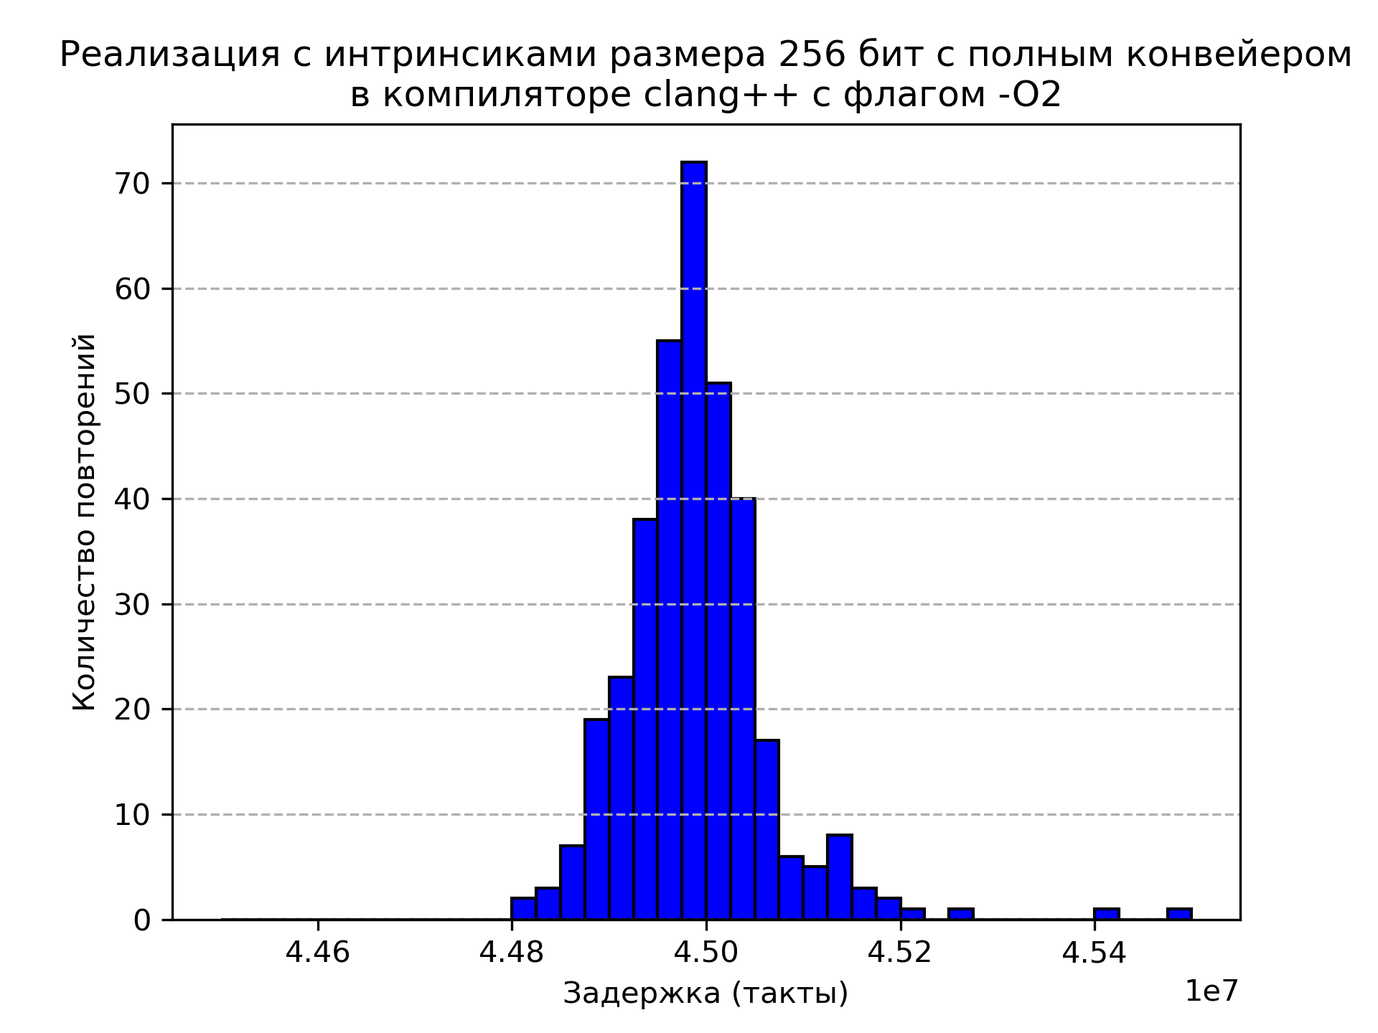
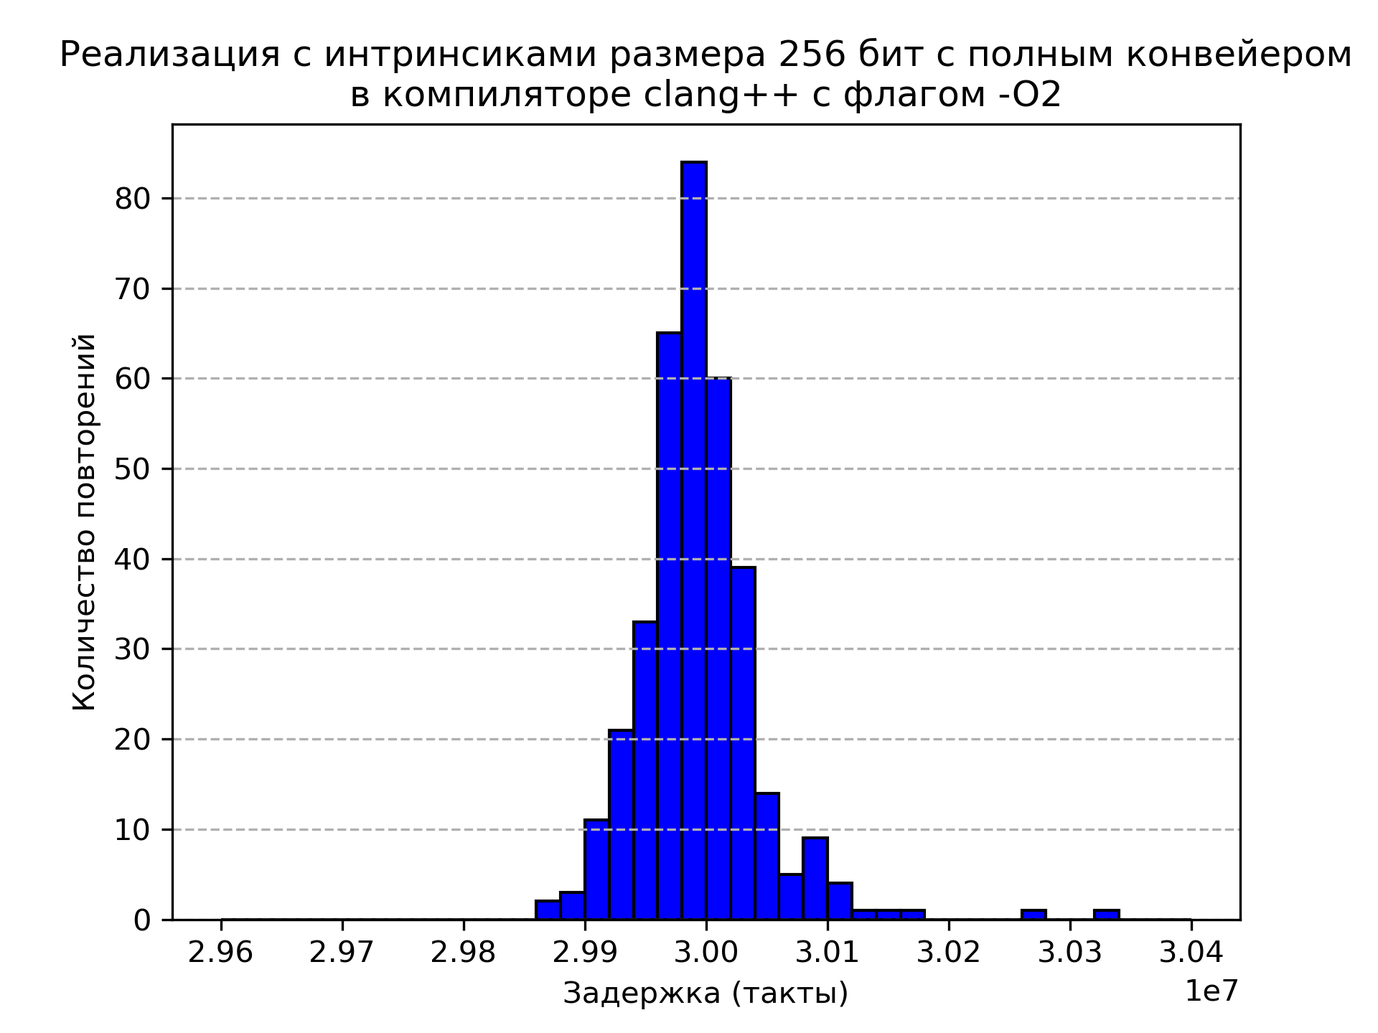
README Update

diff --git a/draw_diagram.py b/draw_diagram.py
@@ -14,10 +14,10 @@ delta = [0, 0, 0, 0]
 frequency = 2000000000
 avg = [0, 0, 0, 0]
 
-file_names = ['data/plot_Naive_clang++_O2.png',
-              'data/plot_Array_clang++_O2.png',
-              'data/plot_256_clang++_O3.png',
-              'data/plot_256_full_pipeline_clang++_O2.png']
+file_names = ['data/plot_256_full_pipeline_G++_O2.png',
+              'data/plot_256_full_pipeline_G++_O3.png',
+              'data/plot_256_full_pipeline_clang++_O2.png',
+              'data/plot_256_full_pipeline_clang++_O3.png']
 graph_names = ['Наивная реализация',
                'Реализация на массивах',
                'Реализация с интринсиками размера 256 бит',
@@ -30,127 +30,81 @@ plot_stable_names = ['Naive_stable.png',
 
 fig_size = 10,6
 
-version_num = 0
-with open('Output_1.txt', 'r') as f:
-   data = [float(line.strip()) for line in f]
-
-x = np.empty(1000, dtype=np.int16)
-
-for i in range (1, 1001):
-    x [i-1] = i
-
-plt.figure(figsize=(fig_size))
-plt.plot (x[:500], data[250:750])
-plt.title("Наивная версия в компиляторе G++ с флагом -O2\n Задержка в тактах в зависимости от номера итерации")
-plt.ylabel('Номер итерации')
-plt.xlabel('Задержка (такты)')
-plt.savefig(plot_stable_names [version_num], dpi = 300)
-plt.clf ()
-
-version_num = 1
-with open('Output_2.txt', 'r') as f:
-   data = [float(line.strip()) for line in f]
-
-x = np.empty(1000, dtype=np.int16)
-
-for i in range (1, 1001):
-    x [i-1] = i
-
-plt.figure(figsize=(fig_size))
-plt.plot (x[:500], data[250:750])
-plt.title("Реализация на массивах в компиляторе G++ с флагом -O2\n Задержка в тактах в зависимости от номера итерации")
-plt.ylabel('Номер итерации')
-plt.xlabel('Задержка (такты)')
-plt.savefig(plot_stable_names [version_num], dpi = 300)
-plt.clf ()
-
-version_num = 2
-with open('Output_3.txt', 'r') as f:
-   data = [float(line.strip()) for line in f]
-
-x = np.empty(1000, dtype=np.int16)
-
-for i in range (1, 1001):
-    x [i-1] = i
-
-plt.figure(figsize=(fig_size))
-plt.plot (x[:500], data[250:750])
-plt.title("Реализация с интринсиками размера 256\n в компиляторе G++ с флагом -O2\n Задержка в тактах в зависимости от номера итерации")
-plt.ylabel('Номер итерации')
-plt.xlabel('Задержка (такты)')
-plt.savefig(plot_stable_names [version_num], dpi = 300)
-plt.clf ()
-
-version_num = 3
-with open('Output_4.txt', 'r') as f:
-   data = [float(line.strip()) for line in f]
-
-x = np.empty(1000, dtype=np.int16)
-
-for i in range (1, 1001):
-    x [i-1] = i
-
-plt.figure(figsize=(fig_size))
-plt.plot (x[:500], data[300:800])
-plt.title("Реализация с интринсиками размера 256 бит с полным конвейером\nв компиляторе G++ с флагом -O2\n Задержка в тактах в зависимости от номера итерации")
-plt.ylabel('Номер итерации')
-plt.xlabel('Задержка (такты)')
-plt.savefig(plot_stable_names [version_num], dpi = 300)
-plt.clf ()
-
-# with open('Output_1_bolt.txt', 'r') as f:
-#    data = [float(line.strip()) for line in f]
-#
 # version_num = 0
-# plt.hist(data [250 : 751], bins = 40, color = 'blue', edgecolor = 'black')# range= (3.955*10**8, 3.975*10**8))
-# plt.grid(axis='y', linestyle='--')
-# plt.title("Наивная версия в компиляторе G++ с флагом -O2 с LLVM bolt")
-# plt.xlabel('Задержка (такты)')
-# plt.ylabel('Количество повторений')
-# plt.savefig(file_names [version_num], dpi = 300)
-# plt.clf ()
-#
-# for i in range (250, 751):
-#     avg[version_num] += data [i]
-# avg[version_num] /= 500
-#
-# for i in range (250, 751):
-#     delta [version_num] += (avg [version_num] - data [i])**2
-# delta [version_num] /= 500
-# delta [version_num] = m.sqrt (delta [version_num])
-#
-# print ('Величина равна ', avg [version_num], ' а погрешность ',version_num,' версии равна ', int (round_significant (delta [version_num])))
-#
-# with open('Output_2_bolt.txt', 'r') as f:
+# with open('Output_1.txt', 'r') as f:
 #    data = [float(line.strip()) for line in f]
+#
+# x = np.empty(1000, dtype=np.int16)
+#
+# for i in range (1, 1001):
+#     x [i-1] = i
+#
+# plt.figure(figsize=(fig_size))
+# plt.plot (x[:500], data[250:750])
+# plt.title("Наивная версия в компиляторе G++ с флагом -O2\n Задержка в тактах в зависимости от номера итерации")
+# plt.ylabel('Номер итерации')
+# plt.xlabel('Задержка (такты)')
+# plt.savefig(plot_stable_names [version_num], dpi = 300)
+# plt.clf ()
 #
 # version_num = 1
-# plt.hist(data [250 : 751], bins = 40, color = 'blue', edgecolor = 'black')# range= (1.450*10**8, 1.475*10**8))
-# plt.grid(axis='y', linestyle='--')
-# plt.title("Реализация на массивах в компиляторе G++ с флагом -O2 с LLVM bolt")
-# plt.xlabel('Задержка (такты)')
-# plt.ylabel('Количество повторений')
-# plt.savefig(file_names [version_num], dpi = 300)
-# plt.clf ()
-#
-# for i in range (250, 751):
-#     avg[version_num] += data [i]
-# avg[version_num] /= 500
-#
-# for i in range (250, 751):
-#     delta [version_num] += (avg [version_num] - data [i])**2
-# delta [version_num] /= 500
-# delta [version_num] = m.sqrt (delta [version_num])
-#
-# print ('Величина равна ', avg [version_num], ' а погрешность ',version_num,' версии равна ', int (round_significant (delta [version_num])))
-
-# with open('Output_3_clang_2.txt', 'r') as f:
+# with open('Output_2.txt', 'r') as f:
 #    data = [float(line.strip()) for line in f]
+#
+# x = np.empty(1000, dtype=np.int16)
+#
+# for i in range (1, 1001):
+#     x [i-1] = i
+#
+# plt.figure(figsize=(fig_size))
+# plt.plot (x[:500], data[250:750])
+# plt.title("Реализация на массивах в компиляторе G++ с флагом -O2\n Задержка в тактах в зависимости от номера итерации")
+# plt.ylabel('Номер итерации')
+# plt.xlabel('Задержка (такты)')
+# plt.savefig(plot_stable_names [version_num], dpi = 300)
+# plt.clf ()
 #
 # version_num = 2
-# plt.hist(data [250 : 751], bins = 40, color = 'blue', edgecolor = 'black',range= (7.120*10**7, 7.150*10**7))
+# with open('Output_3.txt', 'r') as f:
+#    data = [float(line.strip()) for line in f]
+#
+# x = np.empty(1000, dtype=np.int16)
+#
+# for i in range (1, 1001):
+#     x [i-1] = i
+#
+# plt.figure(figsize=(fig_size))
+# plt.plot (x[:500], data[250:750])
+# plt.title("Реализация с интринсиками размера 256\n в компиляторе G++ с флагом -O2\n Задержка в тактах в зависимости от номера итерации")
+# plt.ylabel('Номер итерации')
+# plt.xlabel('Задержка (такты)')
+# plt.savefig(plot_stable_names [version_num], dpi = 300)
+# plt.clf ()
+
+# version_num = 3
+# with open('Output_4.txt', 'r') as f:
+#    data = [float(float(line.strip())/1.5) for line in f]
+#
+# x = np.empty(1000, dtype=np.int16)
+#
+# for i in range (1, 1001):
+#     x [i-1] = i
+#
+# plt.figure(figsize=(fig_size))
+# plt.plot (x[:500], data[300:800])
+# plt.title("Реализация с интринсиками размера 256 бит с полным конвейером\nв компиляторе G++ с флагом -O2\n Задержка в тактах в зависимости от номера итерации")
+# plt.ylabel('Номер итерации')
+# plt.xlabel('Задержка (такты)')
+# plt.savefig(plot_stable_names [version_num], dpi = 300)
+# plt.clf ()
+
+# with open('Output_4.txt', 'r') as f:
+#    data = [float(float(line.strip())/1.5) for line in f]
+#
+# version_num = 0
+# plt.hist(data [250 : 751], bins = 40, color = 'blue', edgecolor = 'black', range= (2.70*10**7, 2.74*10**7))
 # plt.grid(axis='y', linestyle='--')
-# plt.title("Реализация с интринсиками размера 256\n в компиляторе clang++ с флагом -O3")
+# plt.title("Реализация с интринсиками размера 256 бит с полным конвейером\nв компиляторе G++ с флагом -O2")
 # plt.xlabel('Задержка (такты)')
 # plt.ylabel('Количество повторений')
 # plt.savefig(file_names [version_num], dpi = 300)
@@ -166,12 +120,35 @@ plt.clf ()
 # delta [version_num] = m.sqrt (delta [version_num])
 #
 # print ('Величина равна ', avg [version_num], ' а погрешность ',version_num,' версии равна ', int (round_significant (delta [version_num])))
-
-# with open('Output_4_clang_O3.txt', 'r') as f:
-#    data = [float(line.strip()) for line in f]
-
-# version_num = 3
-# plt.hist(data [250 : 751], bins = 40, color = 'blue', edgecolor = 'black', range= (4.45*10**7, 4.55*10**7))
+#
+# with open('Output_4_2.txt', 'r') as f:
+#    data = [float(float(line.strip())/1.5) for line in f]
+#
+# version_num = 1
+# plt.hist(data [250 : 751], bins = 40, color = 'blue', edgecolor = 'black', range= (2.70*10**7, 2.74*10**7))
+# plt.grid(axis='y', linestyle='--')
+# plt.title("Реализация с интринсиками размера 256 бит с полным конвейером\nв компиляторе G++ с флагом -O3")
+# plt.xlabel('Задержка (такты)')
+# plt.ylabel('Количество повторений')
+# plt.savefig(file_names [version_num], dpi = 300)
+# plt.clf ()
+#
+# for i in range (250, 751):
+#     avg[version_num] += data [i]
+# avg[version_num] /= 500
+#
+# for i in range (250, 751):
+#     delta [version_num] += (avg [version_num] - data [i])**2
+# delta [version_num] /= 500
+# delta [version_num] = m.sqrt (delta [version_num])
+#
+# print ('Величина равна ', avg [version_num], ' а погрешность ',version_num,' версии равна ', int (round_significant (delta [version_num])))
+#
+# with open('Output_4_clang.txt', 'r') as f:
+#    data = [float(float(line.strip())/1.5) for line in f]
+#
+# version_num = 2
+# plt.hist(data [250 : 751], bins = 40, color = 'blue', edgecolor = 'black', range= (2.96*10**7, 3.04*10**7))
 # plt.grid(axis='y', linestyle='--')
 # plt.title("Реализация с интринсиками размера 256 бит с полным конвейером\nв компиляторе clang++ с флагом -O2")
 # plt.xlabel('Задержка (такты)')
@@ -189,41 +166,64 @@ plt.clf ()
 # delta [version_num] = m.sqrt (delta [version_num])
 #
 # print ('Величина равна ', avg [version_num], ' а погрешность ',version_num,' версии равна ', int (round_significant (delta [version_num])))
+#
+# with open('Output_4_clang_2.txt', 'r') as f:
+#    data = [float(float(line.strip())/1.5) for line in f]
+#
+# version_num = 3
+# plt.hist(data [250 : 751], bins = 40, color = 'blue', edgecolor = 'black', range= (2.98*10**7, 3.01*10**7))
+# plt.grid(axis='y', linestyle='--')
+# plt.title("Реализация с интринсиками размера 256 бит с полным конвейером\nв компиляторе clang++ с флагом -O3")
+# plt.xlabel('Задержка (такты)')
+# plt.ylabel('Количество повторений')
+# plt.savefig(file_names [version_num], dpi = 300)
+# plt.clf ()
+#
+# for i in range (250, 751):
+#     avg[version_num] += data [i]
+# avg[version_num] /= 500
+#
+# for i in range (250, 751):
+#     delta [version_num] += (avg [version_num] - data [i])**2
+# delta [version_num] /= 500
+# delta [version_num] = m.sqrt (delta [version_num])
+#
+# print ('Величина равна ', avg [version_num], ' а погрешность ',version_num,' версии равна ', int (round_significant (delta [version_num])))
 
-# avg = [1, 3.84, 6.08, 9.71]
-#
-# plt.bar (['Naive', 'Array', 'SIMD 256', 'SIMD 256\nFull Pipeline'], avg)
-# plt.ylabel ('Ускорение программы в зависимости\n от способа оптимизации в разах\n относительно наивной версии')
-# plt.title("Компилятор G++ с флагом -O2")
-#
-# plt.savefig("data/g++_O3.png", dpi = 300)
-# plt.clf()
-#
-# avg = [1, 2.71, 6.08, 9.7]
-#
-# plt.bar (['Naive', 'Array', 'SIMD 256', 'SIMD 256\nFull Pipeline'], avg)
-# plt.ylabel ('Ускорение программы в зависимости\n от способа оптимизации в разах\n относительно наивной версии')
-# plt.title("Компилятор G++ с флагом -O3")
-#
-# plt.savefig("data/g++_O3.png", dpi = 300)
-# plt.clf()
-#
-# avg = [1, 3.30, 5.46, 8.6]
-#
-# plt.bar (['Naive', 'Array', 'SIMD 256', 'SIMD 256\nFull Pipeline'], avg)
-# plt.ylabel ('Ускорение программы в зависимости\n от способа оптимизации в разах\n относительно наивной версии')
-# plt.title("Компилятор clang++ с флагом -O2")
-#
-# plt.savefig("data/clang++_O2.png", dpi = 300)
-# plt.clf()
-#
-# avg = [1, 3.30, 5.45, 8.69]
-#
-# plt.bar (['Naive', 'Array', 'SIMD 256', 'SIMD 256\nFull Pipeline'], avg)
-# plt.ylabel ('Ускорение программы в зависимости\n от способа оптимизации в разах\n относительно наивной версии')
-# plt.title("Компилятор clang++ с флагом -O3")
-#
-# plt.savefig("data/clang++_O3.png", dpi = 300)
+avg = [1, 3.84, 6.08, 14.58]
+
+plt.bar (['Naive', 'Array', 'SIMD 256', 'SIMD 256\nFull Pipeline'], avg)
+plt.ylabel ('Ускорение программы в зависимости\n от способа оптимизации в разах\n относительно наивной версии')
+plt.title("Компилятор G++ с флагом -O2")
+
+plt.savefig("data/g++_O2.png", dpi = 300)
+plt.clf()
+
+avg = [1, 2.71, 6.08, 14.56]
+
+plt.bar (['Naive', 'Array', 'SIMD 256', 'SIMD 256\nFull Pipeline'], avg)
+plt.ylabel ('Ускорение программы в зависимости\n от способа оптимизации в разах\n относительно наивной версии')
+plt.title("Компилятор G++ с флагом -O3")
+
+plt.savefig("data/g++_O3.png", dpi = 300)
+plt.clf()
+
+avg = [1, 3.30, 5.46, 12.9]
+
+plt.bar (['Naive', 'Array', 'SIMD 256', 'SIMD 256\nFull Pipeline'], avg)
+plt.ylabel ('Ускорение программы в зависимости\n от способа оптимизации в разах\n относительно наивной версии')
+plt.title("Компилятор clang++ с флагом -O2")
+
+plt.savefig("data/clang++_O2.png", dpi = 300)
+plt.clf()
+
+avg = [1, 3.30, 5.45, 13.0]
+
+plt.bar (['Naive', 'Array', 'SIMD 256', 'SIMD 256\nFull Pipeline'], avg)
+plt.ylabel ('Ускорение программы в зависимости\n от способа оптимизации в разах\n относительно наивной версии')
+plt.title("Компилятор clang++ с флагом -O3")
+
+plt.savefig("data/clang++_O3.png", dpi = 300)
 
 
 #

diff --git a/README.md b/README.md
@@ -706,16 +706,16 @@ sudo cpupower frequency-set -g ondemand
         </tr>
         <tr>
             <td align="center">Реализация с использованием SIMD и развёрткой цикла</td>
-            <td align="center">4.10 ± 0.01
+            <td align="center">2.73 ± 0.01
             <img src="data/plot_256_full_pipeline.png" alt="Фото">
             </td>
-            <td align="center">4.10 ± 0.02
+            <td align="center">2.73 ± 0.01
             <img src="data/plot_256_full_pipeline_G++_O3.png" alt="Фото">
             </td>
-            <td align="center">4.55 ± 0.07
+            <td align="center">3.03 ± 0.05
             <img src="data/plot_256_full_pipeline_clang++_O2.png" alt="Фото">
             </td>
-            <td align="center">4.49 ± 0.02
+            <td align="center">3.01 ± 0.03
             <img src="data/plot_256_full_pipeline_clang++_O3.png" alt="Фото">
             </td>
         </tr>
@@ -764,10 +764,10 @@ sudo cpupower frequency-set -g ondemand
         </tr>
         <tr>
             <td align="center">Реализация с использованием SIMD и развёрткой цикла</td>
-            <td align="center">9.71 ± 0.03</td>
-            <td align="center">9.70 ± 0.05</td>
-            <td align="center">8.6 ± 0.1</td>
-            <td align="center">8.69 ± 0.04</td>
+            <td align="center">14.58 ± 0.06</td>
+            <td align="center">14.56 ± 0.06</td>
+            <td align="center">12.9 ± 0.2</td>
+            <td align="center">13.0 ± 0.1</td>
         </tr>
         <tr>
             <td align="center">Диаграммы затраченного времени в тактах процессора на одну итерацию отрисовки экрана</td>
@@ -792,7 +792,9 @@ sudo cpupower frequency-set -g ondemand
 
 Однако, данные способы помогают ускорить программу до 9.7 раз, что означает, что не стоит пренебрегать ими.
 
-Как и ожидалось, оптимизация с использованием массивов даст прирост примерно в 3 раза (в идеальной ситуации эта величина была бы равна 4, так как массивы состояли из 4 элементов). Оптимизация с использованием SIMD инструкций ускорила программу ещё в 2 раза, так как использовались инструкции для обработки сразу 8 чисел, а реализация с развёрткой цикла ускорила программу ещё в полтора раза, так как она позволила полностью загрузить конвейер.
+Как и ожидалось, оптимизация с использованием массивов даст прирост примерно в 3 раза (в идеальной ситуации эта величина была бы равна 4, так как массивы состояли из 4 элементов). Оптимизация с использованием SIMD инструкций ускорила программу ещё в 2 раза, так как использовались инструкции для обработки сразу 8 чисел, а реализация с развёрткой цикла ускорила программу ещё в два раза, так как она позволила полностью загрузить конвейер.
+
+Развёртка цикла на 4 итерации не позволяет ускорить программу ещё в 4 раза, так как в неё уже начинается работа с локальными переменными, но затраты на работу с локальными переменными всё ещё меньше прироста скорости, появившегося из-за развёртки, поэтому получается, что программа работает быстрее.
 
 Так как **clang++** точно соблюдает стандарты `C++`, а **g++** пытается совместить, где возможно, стандарты `C` и `C++`, то возможностей у **g++** больше, поэтому он и может сделать более оптимизированный код.
 
